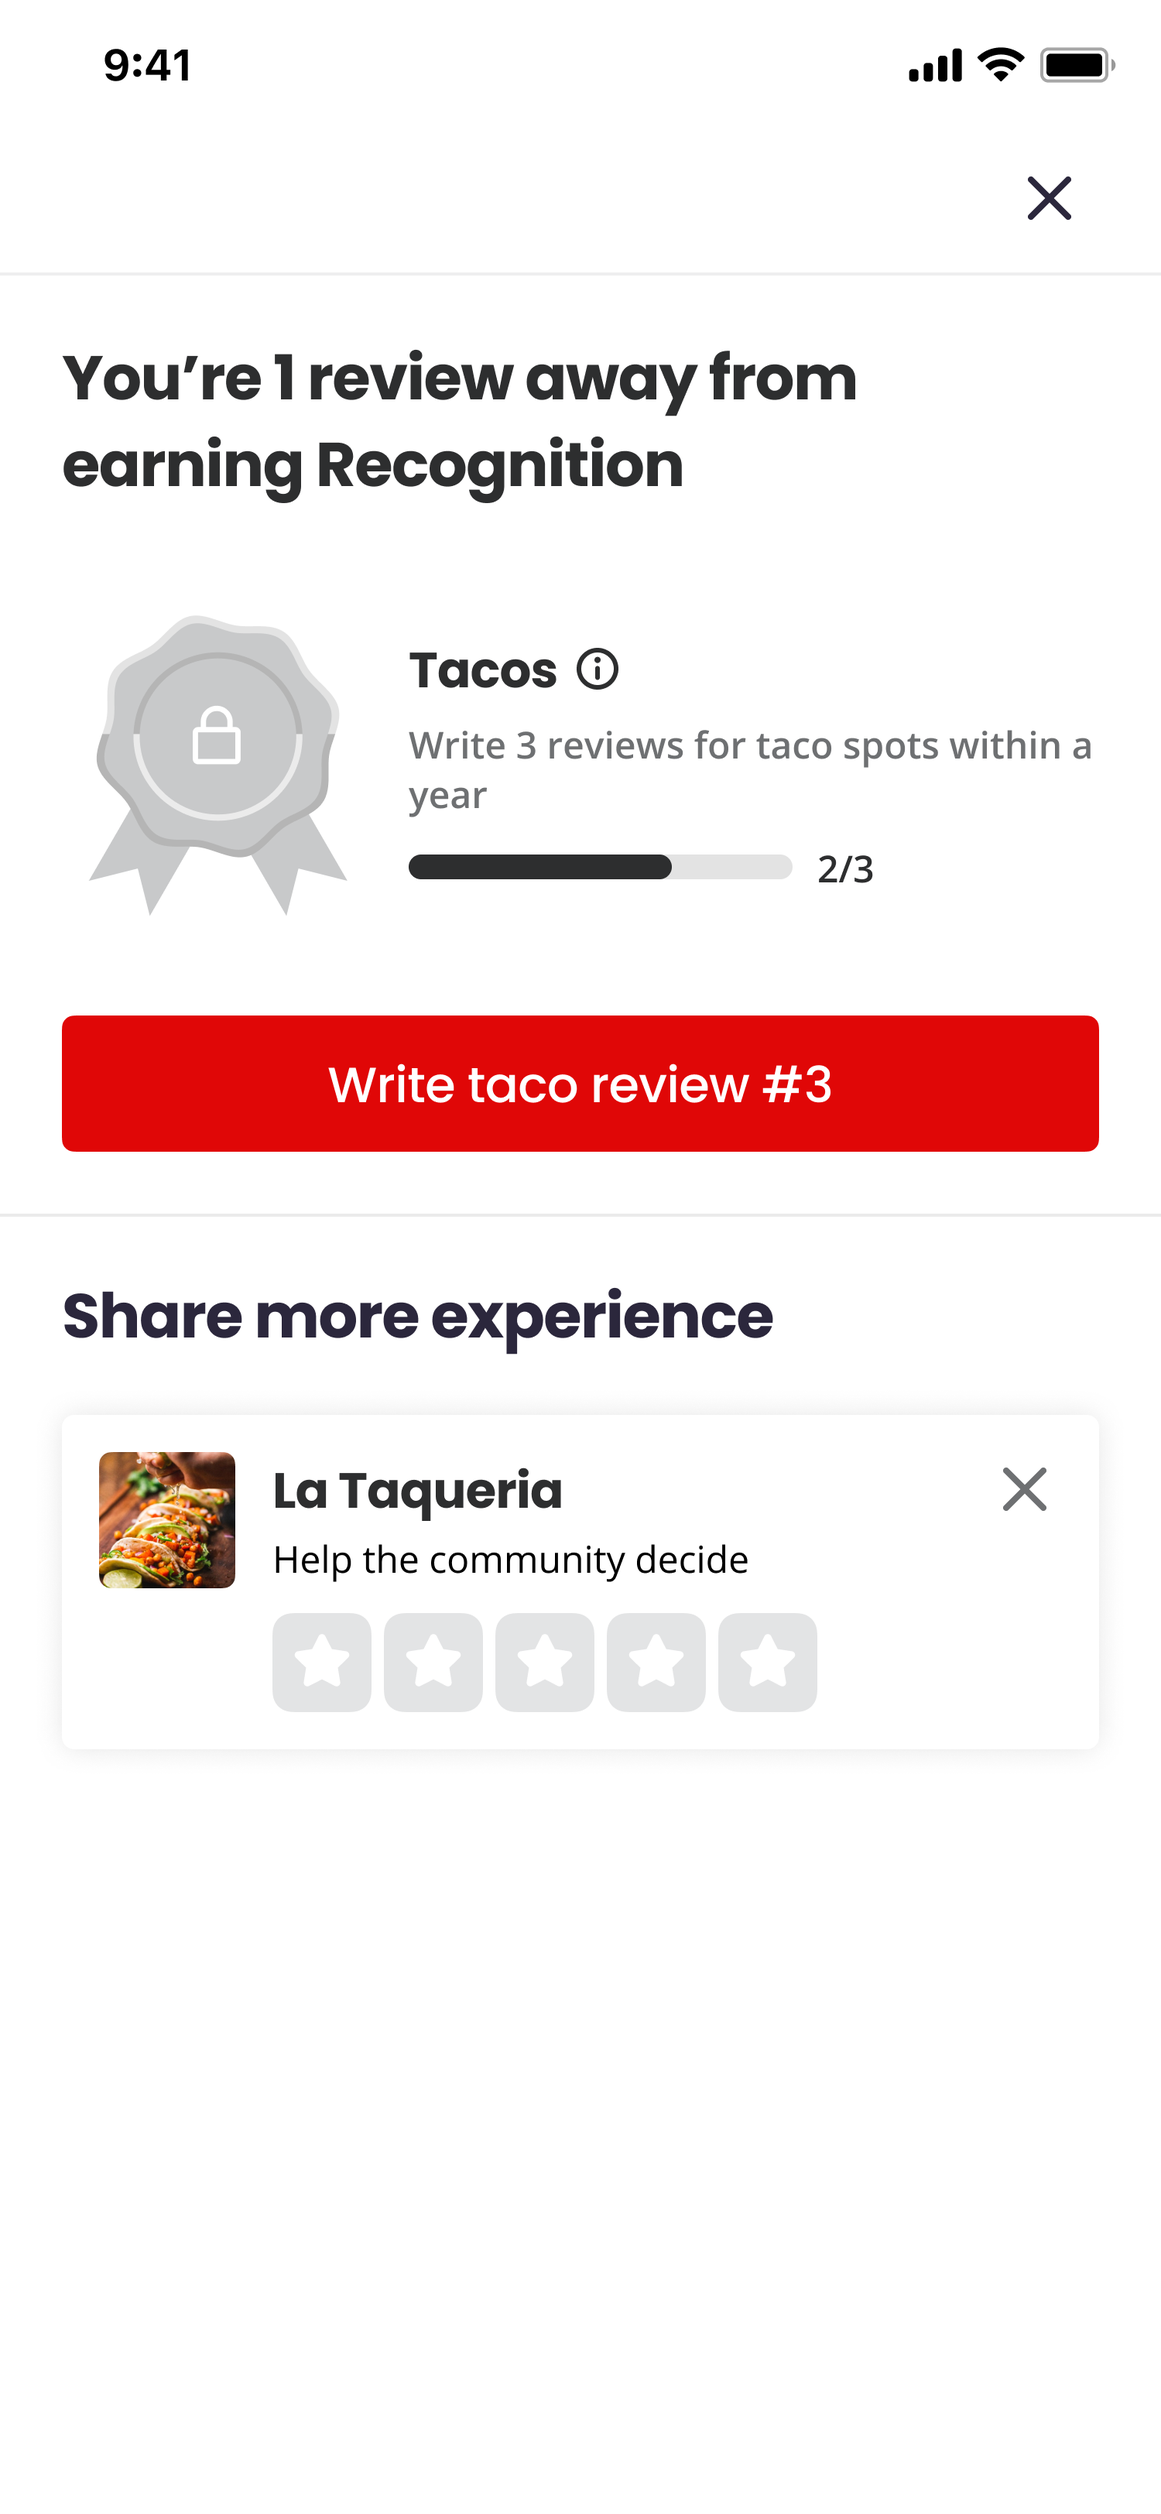
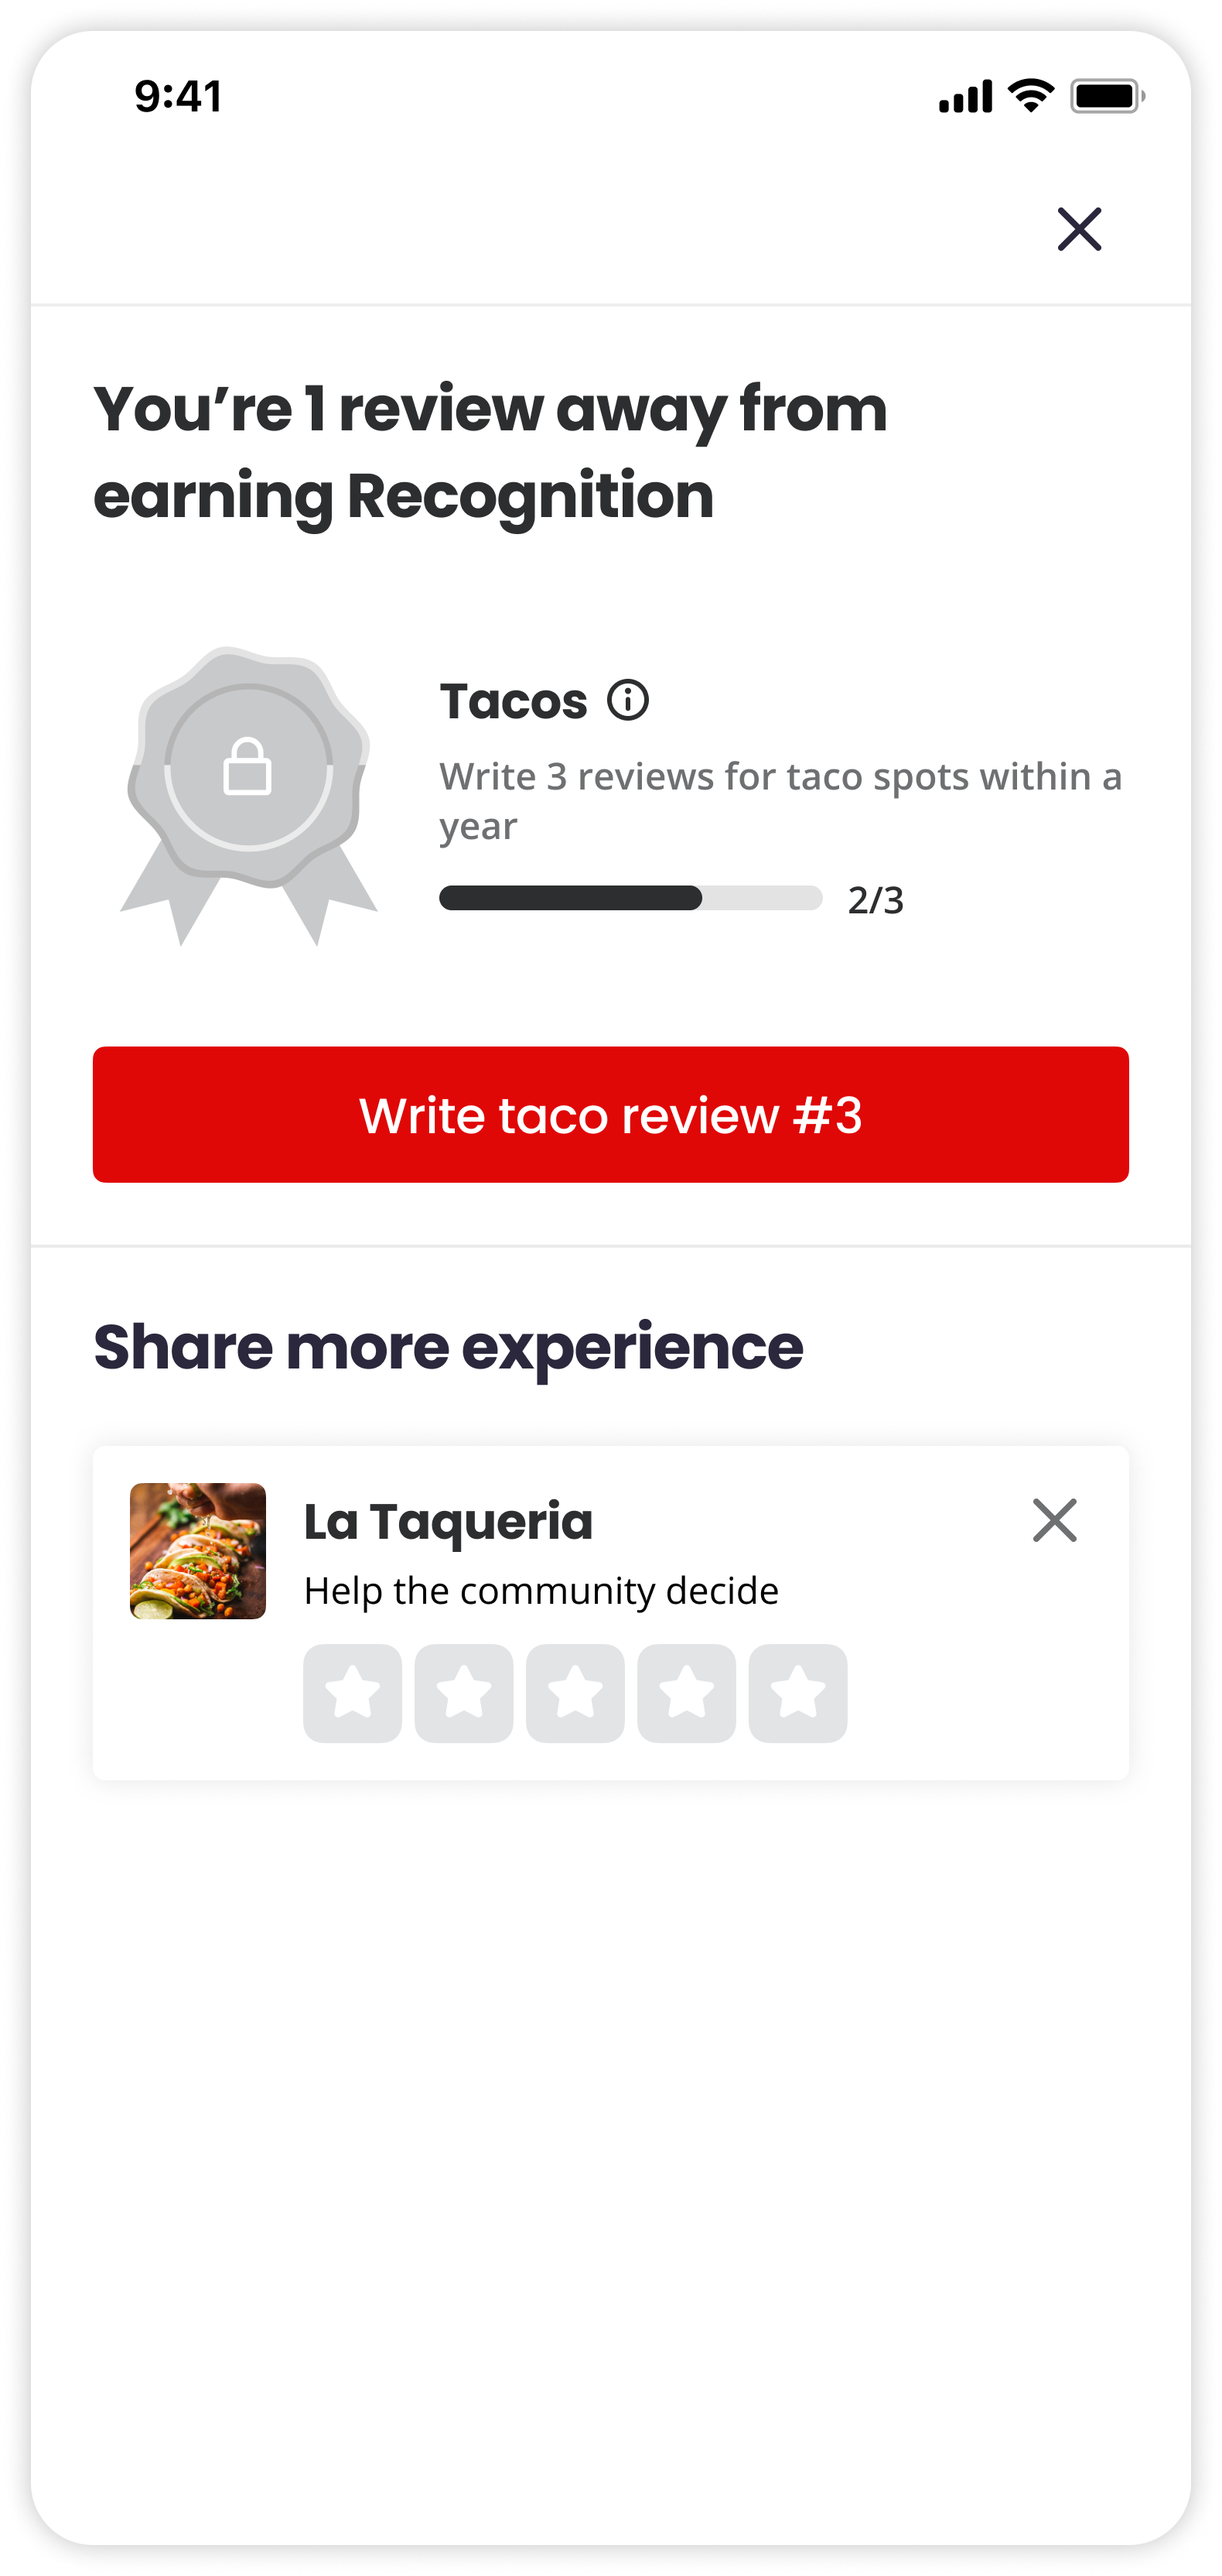
Fix MVP design images and limit width to 70%

diff --git a/app/work/recognition/page.tsx b/app/work/recognition/page.tsx
@@ -102,12 +102,12 @@ export default function Recognition() {
         </div>
 
         <Label>MVP Design</Label>
-        <div className="grid grid-cols-2 gap-4 mt-2">
+        <div className="grid grid-cols-2 gap-4 mt-2" style={{ width: "70%" }}>
           <figure className="not-prose">
             <Image src="/images/Recognition/Earning-recogntion-1.png" alt="MVP earning recognition screen 1" width={800} height={600} className="w-full rounded-lg" style={{ objectFit: "contain" }} />
           </figure>
           <figure className="not-prose">
-            <Image src="/images/Recognition/Me-tab-discarded-design-1-2.png" alt="MVP earning recognition screen 2" width={800} height={600} className="w-full rounded-lg" style={{ objectFit: "contain" }} />
+            <Image src="/images/Recognition/Earning-recogntion-2.png" alt="MVP earning recognition screen 2" width={800} height={600} className="w-full rounded-lg" style={{ objectFit: "contain" }} />
           </figure>
         </div>
       </Card>
